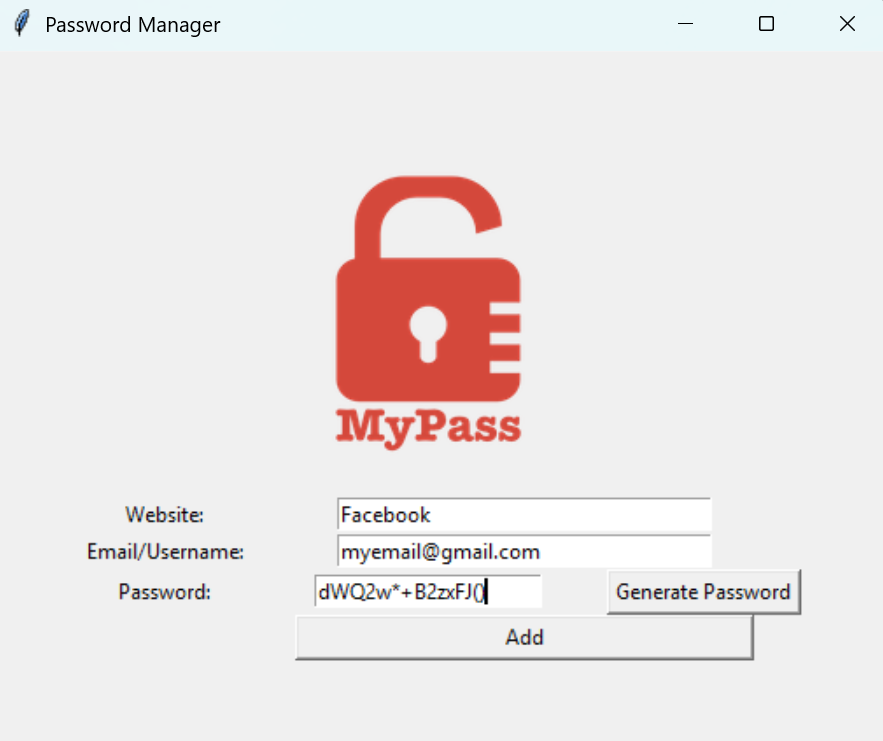
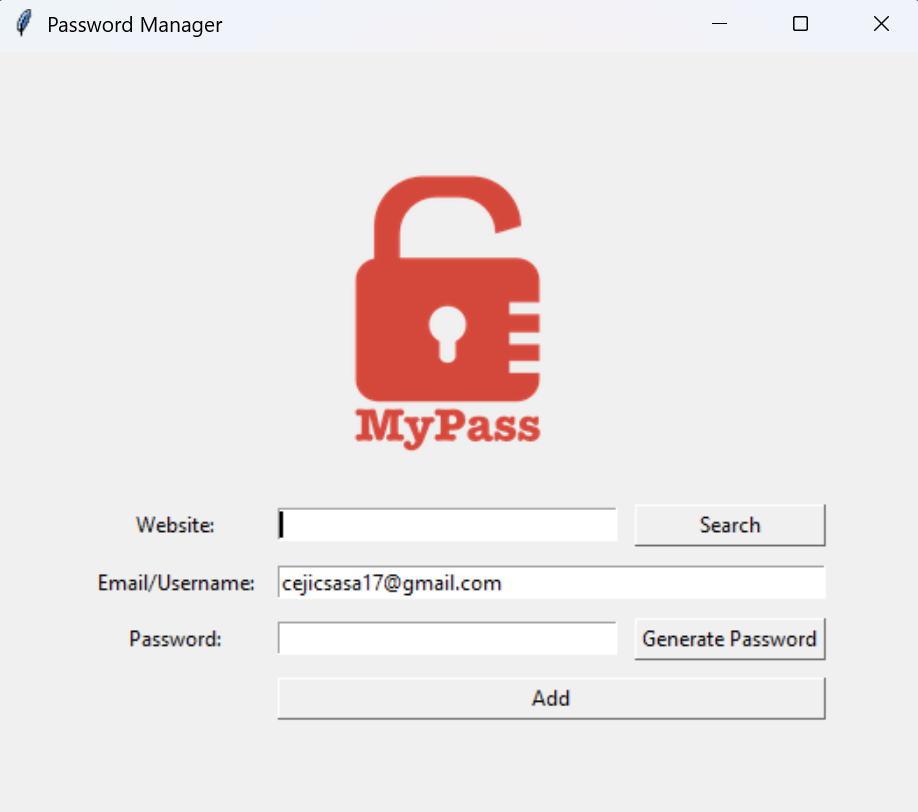
Added Search functionality, json file and error handling

diff --git a/main.py b/main.py
@@ -2,6 +2,7 @@ from tkinter import *
 from tkinter import messagebox
 import random
 import pyperclip
+import json
 
 FONT_NAME = "Arial"
 # ---------------------------- PASSWORD GENERATOR ------------------------------- #
@@ -14,20 +15,12 @@ def generate_password():
     nr_symbols = random.randint(2, 4)
     nr_numbers = random.randint(2, 4)
 
-    # password_list = []
-
-    # for char in range(nr_letters):
-    #   password_list.append(random.choice(letters))
 
     letters_list = [random.choice(letters) for char in range(nr_letters)]
 
-    # for char in range(nr_symbols):
-    #   password_list += random.choice(symbols)
 
     symbols_list = [random.choice(symbols) for char in range(nr_symbols)]
 
-    # for char in range(nr_numbers):
-    #   password_list += random.choice(numbers)
 
     numbers_list = [random.choice(numbers) for char in range(nr_numbers)]
 
@@ -45,18 +38,45 @@ def generate_password():
 # ---------------------------- SAVE PASSWORD ------------------------------- #
 def save():
 
+    new_data = {
+        website_entry.get():
+            {
+                "email": username_entry.get(),
+                "password": password_entry.get()
+            }
+    }
+
     if website_entry.get() == "" or username_entry.get() == "" or password_entry.get() == "":
         messagebox.showerror(title="Oops", message="Don't leave any of the entries blank!")
     else:
-        is_ok = messagebox.askokcancel(title=website_entry.get(), message=f"These are the details entered: \nEmail: {username_entry.get()}\n Password: {password_entry.get()}\n Is it ok to save?")
-
-        if is_ok:
-            with open("data.txt", mode="a") as file:
-                file.write(f"{website_entry.get()}  |   {username_entry.get()}  |   {password_entry.get()}\n")
-            website_entry.delete(0,END)
-            username_entry.delete(0, END)
+        try:
+            with open("data.json", mode="r") as file:
+                data = json.load(file)
+        except FileNotFoundError:
+            with open("data.json", mode="w") as file:
+                json.dump(new_data, file, indent=4)
+        else:
+            data.update(new_data)
+            with open("data.json", mode="w") as file:
+                json.dump(data, file, indent=4)
+        finally:
+            website_entry.delete(0, END)
             password_entry.delete(0, END)
 
+# ---------------------------- SEARCH ------------------------------- #
+def search():
+    try:
+        with open("data.json", mode="r") as file:
+            data = json.load(file)
+    except FileNotFoundError:
+        messagebox.showerror(title="Oops", message="No Data File Found.")
+    else:
+        if website_entry.get() in data:
+            message_to_show = (f"Email: {data[website_entry.get()]['email']}\n"
+                               f"Password: {data[website_entry.get()]['password']}")
+            messagebox.showinfo(title=website_entry.get(), message=message_to_show)
+        else:
+            messagebox.showerror(title="Oops", message="There is no info about this website.")
 
 # ---------------------------- UI SETUP ------------------------------- #
 window = Tk()
@@ -69,29 +89,32 @@ canvas.create_image(100, 100, image=photo)
 canvas.grid(column=1, row=0)
 
 website_label = Label(text="Website:")
-website_label.grid(column=0, row=1)
+website_label.grid(column=0, row=1, padx=5, pady=5)
 
-website_entry = Entry(width=35)
-website_entry.grid(column=1, row = 1, columnspan=2)
+website_entry = Entry(width=21)
+website_entry.grid(column=1, row = 1, sticky="WE", padx=5, pady=5)
 website_entry.focus()
 
+search_button = Button(text="Search", width=13, command=search, border=1)
+search_button.grid(row=1, column=2, sticky="WE", padx=5, pady=5)
+
 username_label = Label(text="Email/Username:")
-username_label.grid(column=0, row=2)
+username_label.grid(column=0, row=2, padx=5, pady=5)
 
 username_entry = Entry(width=35)
 username_entry.insert(0, "cejicsasa17@gmail.com")
-username_entry.grid(column=1, row=2, columnspan=2)
+username_entry.grid(column=1, row=2, columnspan=2, sticky="WE", padx=5, pady=5)
 
 password_label = Label(text="Password:")
-password_label.grid(column=0, row=3)
+password_label.grid(column=0, row=3, padx=5, pady=5)
 
 password_entry = Entry(width=21)
-password_entry.grid(column=1, row=3)
+password_entry.grid(column=1, row=3, sticky="WE", padx=5, pady=5)
 
-generate_password_button = Button(text="Generate Password", command=generate_password)
-generate_password_button.grid(column=2, row=3)
+generate_password_button = Button(text="Generate Password", command=generate_password, border=1)
+generate_password_button.grid(column=2, row=3, sticky="WE", padx=5, pady=5)
 
-add_button = Button(text="Add", width=36, command=save)
-add_button.grid(column=1, row=4, columnspan=2)
+add_button = Button(text="Add", width=36, command=save, border=1)
+add_button.grid(column=1, row=4, columnspan=2, sticky="WE", padx=5, pady=5)
 
 window.mainloop()

diff --git a/README.md b/README.md
@@ -1,25 +1,29 @@
 # 🔐 Password Manager
 
-A simple **Password Manager** built with Python and Tkinter.  
-This application allows users to **generate secure random passwords**, save them along with the website and username/email, and copy them to the clipboard for quick use.  
+A secure **Password Manager** built with **Python** and **Tkinter**.  
+This application allows users to **generate strong passwords**, store them safely in a **JSON file**, and easily retrieve them later.
 
 ---
 
 ## ✨ Features
 
 - **Password Generator**  
-  - Creates strong, random passwords with a mix of letters, numbers, and symbols.
-  - Passwords are automatically copied to your clipboard for convenience.
+  - Creates strong, random passwords with a mix of letters, numbers, and symbols.  
+  - Passwords are automatically copied to your clipboard for convenience.  
 
 - **Save Credentials**  
-  - Stores website, email/username, and password in a local `data.txt` file.
-  - Ensures no empty fields before saving.
-  - Confirms details with the user before writing to file.
+  - Stores website, email/username, and password in a `data.json` file.  
+  - Confirms details with the user before saving.  
+  - Prevents accidental overwrites by merging data when the same website already exists.  
+
+- **Search Functionality**  
+  - Quickly retrieve saved credentials by typing the website name.  
+  - Displays stored email/username and password in a pop-up.  
 
 - **Simple UI**  
-  - Built with **Tkinter** for a clean and functional interface.
-  - Includes input fields for website, email/username, and password.
-  - One-click password generation and save functionality.
+  - Built with **Tkinter** for an intuitive interface.  
+  - Includes input fields for website, email/username, and password.  
+  - Buttons for password generation, saving, and searching.  
 
 ---
 
@@ -28,6 +32,7 @@ This application allows users to **generate secure random passwords**, save them
 - [Python 3](https://www.python.org/)  
 - [Tkinter](https://docs.python.org/3/library/tkinter.html) – for the graphical user interface  
 - [Pyperclip](https://pypi.org/project/pyperclip/) – for copying passwords to clipboard  
+- [JSON](https://docs.python.org/3/library/json.html) – for secure data storage  
 
 ---
 
@@ -35,10 +40,13 @@ This application allows users to **generate secure random passwords**, save them
 
 ```
 .
-├── logo.png          # App logo displayed in the UI
-├── data.txt          # Saved credentials (created automatically)
-├── main.py           # Main application file (your script)
-└── README.md         # Project documentation
+├── data.json          # Stores saved credentials securely
+├── logo.png           # App logo displayed in the UI
+├── screenshot.png     # Screenshot of the app UI
+├── main.py            # Main application file
+├── requirements.txt   # Dependencies
+├── LICENSE
+└── README.md          # Project documentation
 ```
 
 ---
@@ -52,9 +60,8 @@ cd password-manager
 ```
 
 ### 2. Install Dependencies
-Make sure you have Python 3 installed. Then install required packages:
 ```bash
-pip install pyperclip
+pip install -r requirements.txt
 ```
 
 ### 3. Run the Application
@@ -69,45 +76,42 @@ python main.py
 1. Enter the **Website** and **Email/Username**.  
 2. Click **Generate Password** to create a random secure password.  
    - The password will also be copied to your clipboard.  
-3. Click **Add** to save the credentials to `data.txt`.  
-4. Credentials are stored in the following format:
-   ```
-   Website  |   Email/Username  |   Password
-   ```
-
----
-
-## ⚠ Disclaimer
-
-This project is for **educational purposes** only.  
-The data is saved in plain text (`data.txt`), which is **not secure for real-world use**.  
-If you want to use this in production, consider:
-- Encrypting stored credentials
-- Using a secure database or password vault
-- Adding authentication before accessing saved data
+3. Click **Add** to save the credentials into `data.json`.  
+4. Use the **Search** button to retrieve stored credentials for a specific website.  
 
 ---
 
 ## 📸 Screenshot
 
 <p align="center">
-  <img src="screenshot.png" alt="Password Manager Logo" width="150"/>
+  <img src="screenshot.png" alt="Password Manager Screenshot" width="400"/>
 </p>
+
+---
+
+## ⚠ Disclaimer
+
+This project is for **educational purposes** only.  
+Although credentials are saved in JSON instead of plain text, this is **not fully secure** for production use.  
+For real-world applications, consider:  
+- Encrypting stored data  
+- Using a secure database or password vault  
+- Adding authentication before accessing saved data  
 
 ---
 
 ## 📌 Future Improvements
 
-- Implement search functionality for saved credentials.  
 - Encrypt stored passwords.  
+- Add master password protection.  
 - Improve UI/UX with themes.  
-- Add delete/edit functionality for saved records.
+- Add option to delete or edit saved credentials.  
 
 ---
 
 ## 👨💻 Author
 
-Developed by **Saša Ćejić**  
+Developed by **Saša Čejić**  
 📧 Contact: cejicsasa17@gmail.com  
 
 ---
@@ -116,5 +120,3 @@ Developed by **Saša Ćejić**
 
 This project is licensed under the MIT License.  
 Feel free to use and modify for personal or educational purposes.
-
-
